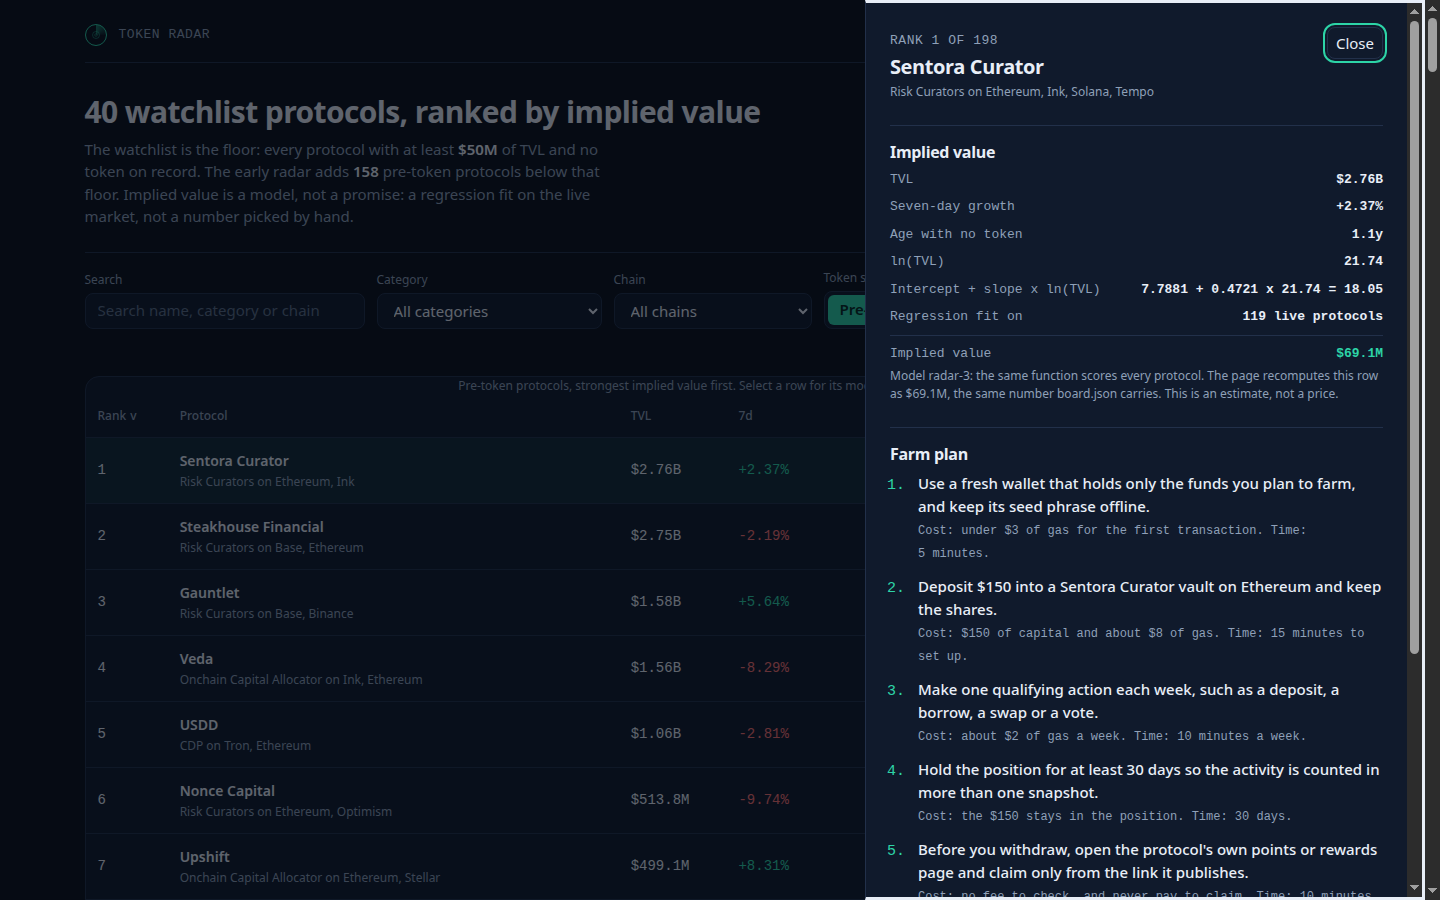
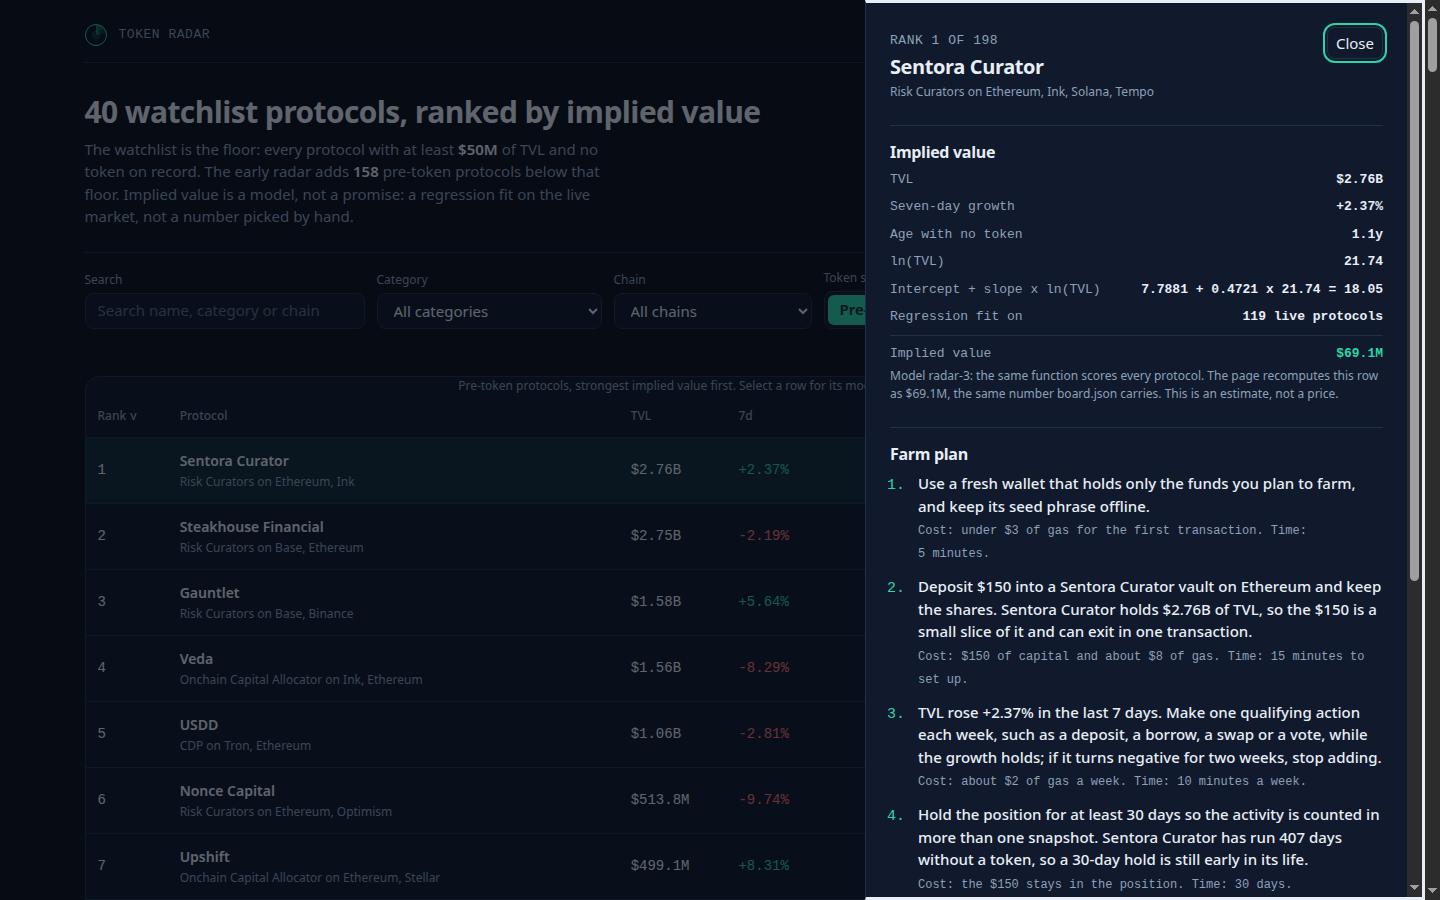
Radar-4: farm plans read the protocol's own record
Every step now carries the protocol's numbers instead of a shared
template: the main action names its TVL, the weekly step follows the
7-day change (grow / fall / flat / unrecorded), the hold names the
days run without a token, a new chain step farms the second chain
with half the capital, the monthly check compares against the
snapshot TVL, and the claim step names the implied value. The plan
in the page and the plan in board.json stay the same plan.

Changed region(s): [[0.625, 0.6533, 1.0, 1.0]]

diff --git a/lib/model.ts b/lib/model.ts
@@ -325,7 +325,7 @@ export function buildBoard(snapshot: Snapshot, model: ModelConstants = MODEL): B
       comparables: s.comparables,
       age_days: s.age,
     },
-    farm_steps: farmSteps(s.p, s.age).map(stepText),
+    farm_steps: farmSteps(s.p, s.age, s.implied).map(stepText),
   }));
 }
 
@@ -337,6 +337,23 @@ export function stepText(step: FarmStep): string {
   if (s.length > 600) s = `${s.slice(0, 596)}...`;
   if (s.length < 20) s = `${s} Hold the position and check the protocol's own page.`;
   return s;
+}
+
+/** A dollar figure, shortened past a thousand, formatted exactly the way the dashboard formats it. */
+const moneyFmt = new Intl.NumberFormat('en-US', { style: 'currency', currency: 'USD', maximumFractionDigits: 0 });
+
+function fmtUsd(n: number): string {
+  if (!isFinite(n)) return 'n/a';
+  if (Math.abs(n) >= 1e9) return `$${(n / 1e9).toFixed(2)}B`;
+  if (Math.abs(n) >= 1e6) return `$${(n / 1e6).toFixed(1)}M`;
+  if (Math.abs(n) >= 1e3) return `$${Math.round(n / 1e3)}K`;
+  return moneyFmt.format(n);
+}
+
+/** A percent with its sign, formatted exactly the way the dashboard formats it. */
+function fmtPct(n: number): string {
+  if (!isFinite(n)) return 'n/a';
+  return `${n > 0 ? '+' : ''}${n.toFixed(2)}%`;
 }
 
 /** The first chain a protocol names, or a neutral phrase. */
@@ -378,11 +395,51 @@ function actionFor(p: SnapshotProtocol, capital: number, chain: string): string 
   return `Deposit $${capital} of USDC into ${name} on ${chain} and keep the position open.`;
 }
 
+/** The weekly step, read off the protocol's own 7-day change. */
+function growthStep(p: SnapshotProtocol): string {
+  if (p.change_7d === null) return `No 7-day change is recorded for ${p.name}. Make one qualifying action each week, such as a deposit, a borrow, a swap or a vote, and judge the trend from next week's TVL.`;
+  if (p.change_7d > 0) return `TVL rose ${fmtPct(p.change_7d)} in the last 7 days. Make one qualifying action each week, such as a deposit, a borrow, a swap or a vote, while the growth holds; if it turns negative for two weeks, stop adding.`;
+  if (p.change_7d < 0) return `TVL fell ${fmtPct(p.change_7d)} in the last 7 days. Make one qualifying action this week, such as a deposit, a borrow, a swap or a vote, then wait a week before adding more.`;
+  return `TVL was flat over the last 7 days. Make one qualifying action each week, such as a deposit, a borrow, a swap or a vote, and that is enough to stay active.`;
+}
+
+/** The hold step, read off how long the protocol has run without a token. */
+function holdStep(p: SnapshotProtocol, age: number | null, hold: number): string {
+  if (age === null) return `Hold the position for at least ${hold} days so the activity is counted in more than one snapshot. Its listing date is not recorded, so ${hold} days is the safe default.`;
+  return `Hold the position for at least ${hold} days so the activity is counted in more than one snapshot. ${p.name} has run ${age} days without a token, so a ${hold}-day hold is still early in its life.`;
+}
+
+/** The chain step: a second chain gets half the capital, a single chain keeps the whole position. */
+function chainStep(p: SnapshotProtocol, capital: number): FarmStep {
+  if (p.chains.length >= 2) {
+    const half = Math.max(10, Math.round(capital / 2));
+    return {
+      text: `${p.name} also runs on ${p.chains[1]!}, so repeat the deposit there with $${half}, half the first position, so the activity shows on two chains, not one.`,
+      cost: `$${half} of capital and about $4 of gas`,
+      time: '15 minutes to set up',
+    };
+  }
+  if (p.chains.length === 1) {
+    return {
+      text: `${p.name} runs only on ${p.chains[0]!}, so all of the activity counts on that one chain. Keep the whole position there instead of splitting it.`,
+      cost: 'nothing extra',
+      time: '5 minutes to check',
+    };
+  }
+  return {
+    text: `${p.name} names no chain in the snapshot, so do the whole position on the chain its app opens on and note which one in the farm log.`,
+    cost: 'nothing extra',
+    time: '5 minutes to check',
+  };
+}
+
 /**
- * A protocol's farm plan: eight steps, each an action with a cost and a time. The plan is derived
- * from the protocol's own record (category, chains, TVL, age), never from a hand-written list of names.
+ * A protocol's farm plan: eight steps, each an action with a cost and a time. Every step is
+ * derived from the protocol's own record — its TVL, its 7-day change, its chains, its age and
+ * its implied value — so two protocols never get the same plan unless their records match.
+ * No protocol name is ever special-cased.
  */
-export function farmSteps(p: SnapshotProtocol, age: number | null): FarmStep[] {
+export function farmSteps(p: SnapshotProtocol, age: number | null, implied: number): FarmStep[] {
   const chain = chainOf(p);
   const capital = capitalFor(p);
   const hold = holdDaysFor(age);
@@ -394,32 +451,28 @@ export function farmSteps(p: SnapshotProtocol, age: number | null): FarmStep[] {
       time: '5 minutes',
     },
     {
-      text: action,
+      text: `${action} ${p.name} holds ${fmtUsd(p.tvl_usd)} of TVL, so the $${capital} is a small slice of it and can exit in one transaction.`,
       cost: `$${capital} of capital and about $${capital >= 150 ? 8 : 4} of gas`,
       time: '15 minutes to set up',
     },
     {
-      text: `Make one qualifying action each week, such as a deposit, a borrow, a swap or a vote.`,
+      text: growthStep(p),
       cost: 'about $2 of gas a week',
       time: '10 minutes a week',
     },
     {
-      text: `Hold the position for at least ${hold} days so the activity is counted in more than one snapshot.`,
+      text: holdStep(p, age, hold),
       cost: `the $${capital} stays in the position`,
       time: `${hold} days`,
     },
+    chainStep(p, capital),
     {
-      text: `Before you withdraw, open the protocol's own points or rewards page and claim only from the link it publishes.`,
-      cost: 'no fee to check, and never pay to claim',
-      time: '10 minutes',
-    },
-    {
-      text: `Once a month, check the protocol's TVL and your position; if TVL falls by more than a fifth in a week, pause new deposits until you know why.`,
+      text: `Once a month, check ${p.name}'s TVL against the ${fmtUsd(p.tvl_usd)} in the last snapshot; if it falls by more than a fifth in a week, pause new deposits until you know why.`,
       cost: 'nothing to check',
       time: '10 minutes a month',
     },
     {
-      text: `Before the token launches, check the protocol's own announcements for the claim window and the eligibility rules; a claim that asks for a fee or a seed phrase is a scam.`,
+      text: `Before the token launches, check ${p.name}'s own announcements for the claim window and the eligibility rules, and claim only from the link it publishes. At an implied ${fmtUsd(implied)} the claim is worth chasing, but a claim that asks for a fee or a seed phrase is a scam.`,
       cost: 'no fee to check',
       time: '10 minutes',
     },

diff --git a/dashboard/app.js b/dashboard/app.js
@@ -69,8 +69,9 @@
   }
 
   // The farm plan, derived in the page exactly as main.ts derives it for board.json: category,
-  // chains, TVL and age decide the action, the capital, the hold and every cost and time. No name
-  // is special-cased, so the page's plan and the board's plan are the same plan.
+  // chains, TVL, the 7-day change, age and the implied value decide the action, the capital,
+  // the hold and every cost and time. No name is special-cased, so the page's plan and the
+  // board's plan are the same plan.
   function firstChain(p) { return p.chains && p.chains.length > 0 ? p.chains[0] : 'its main chain'; }
   function capitalFor(p) {
     if (p.tvl_usd >= 5e9) return 250;
@@ -106,18 +107,39 @@
     if (s.length < 20) s = s + " Hold the position and check the protocol's own page.";
     return s;
   }
+  function growthStep(p) {
+    if (p.change_7d === null || p.change_7d === undefined) return 'No 7-day change is recorded for ' + p.name + ". Make one qualifying action each week, such as a deposit, a borrow, a swap or a vote, and judge the trend from next week's TVL.";
+    if (p.change_7d > 0) return 'TVL rose ' + fmtPct(p.change_7d) + ' in the last 7 days. Make one qualifying action each week, such as a deposit, a borrow, a swap or a vote, while the growth holds; if it turns negative for two weeks, stop adding.';
+    if (p.change_7d < 0) return 'TVL fell ' + fmtPct(p.change_7d) + ' in the last 7 days. Make one qualifying action this week, such as a deposit, a borrow, a swap or a vote, then wait a week before adding more.';
+    return 'TVL was flat over the last 7 days. Make one qualifying action each week, such as a deposit, a borrow, a swap or a vote, and that is enough to stay active.';
+  }
+  function holdStep(p, age, hold) {
+    if (age === null || age === undefined) return 'Hold the position for at least ' + hold + ' days so the activity is counted in more than one snapshot. Its listing date is not recorded, so ' + hold + ' days is the safe default.';
+    return 'Hold the position for at least ' + hold + ' days so the activity is counted in more than one snapshot. ' + p.name + ' has run ' + age + ' days without a token, so a ' + hold + '-day hold is still early in its life.';
+  }
+  function chainStep(p, capital) {
+    if (p.chains && p.chains.length >= 2) {
+      var half = Math.max(10, Math.round(capital / 2));
+      return { text: p.name + ' also runs on ' + p.chains[1] + ', so repeat the deposit there with $' + half + ', half the first position, so the activity shows on two chains, not one.', cost: '$' + half + ' of capital and about $4 of gas', time: '15 minutes to set up' };
+    }
+    if (p.chains && p.chains.length === 1) {
+      return { text: p.name + ' runs only on ' + p.chains[0] + ', so all of the activity counts on that one chain. Keep the whole position there instead of splitting it.', cost: 'nothing extra', time: '5 minutes to check' };
+    }
+    return { text: p.name + ' names no chain in the snapshot, so do the whole position on the chain its app opens on and note which one in the farm log.', cost: 'nothing extra', time: '5 minutes to check' };
+  }
   function farmSteps(p) {
     var chain = firstChain(p);
     var capital = capitalFor(p);
     var hold = holdFor(p.age_days);
+    var action = actionFor(p, capital, chain);
     return [
       { text: 'Use a fresh wallet that holds only the funds you plan to farm, and keep its seed phrase offline.', cost: 'under $3 of gas for the first transaction', time: '5 minutes' },
-      { text: actionFor(p, capital, chain), cost: '$' + capital + ' of capital and about $' + (capital >= 150 ? 8 : 4) + ' of gas', time: '15 minutes to set up' },
-      { text: 'Make one qualifying action each week, such as a deposit, a borrow, a swap or a vote.', cost: 'about $2 of gas a week', time: '10 minutes a week' },
-      { text: 'Hold the position for at least ' + hold + ' days so the activity is counted in more than one snapshot.', cost: 'the $' + capital + ' stays in the position', time: hold + ' days' },
-      { text: "Before you withdraw, open the protocol's own points or rewards page and claim only from the link it publishes.", cost: 'no fee to check, and never pay to claim', time: '10 minutes' },
-      { text: "Once a month, check the protocol's TVL and your position; if TVL falls by more than a fifth in a week, pause new deposits until you know why.", cost: 'nothing to check', time: '10 minutes a month' },
-      { text: "Before the token launches, check the protocol's own announcements for the claim window and the eligibility rules; a claim that asks for a fee or a seed phrase is a scam.", cost: 'no fee to check', time: '10 minutes' },
+      { text: action + ' ' + p.name + ' holds ' + fmtUsd(p.tvl_usd) + ' of TVL, so the $' + capital + ' is a small slice of it and can exit in one transaction.', cost: '$' + capital + ' of capital and about $' + (capital >= 150 ? 8 : 4) + ' of gas', time: '15 minutes to set up' },
+      { text: growthStep(p), cost: 'about $2 of gas a week', time: '10 minutes a week' },
+      { text: holdStep(p, p.age_days, hold), cost: 'the $' + capital + ' stays in the position', time: hold + ' days' },
+      chainStep(p, capital),
+      { text: "Once a month, check " + p.name + "'s TVL against the " + fmtUsd(p.tvl_usd) + " in the last snapshot; if it falls by more than a fifth in a week, pause new deposits until you know why.", cost: 'nothing to check', time: '10 minutes a month' },
+      { text: "Before the token launches, check " + p.name + "'s own announcements for the claim window and the eligibility rules, and claim only from the link it publishes. At an implied " + fmtUsd(p.implied_value_usd) + " the claim is worth chasing, but a claim that asks for a fee or a seed phrase is a scam.", cost: 'no fee to check', time: '10 minutes' },
       { text: 'Write the wallet, the dates and every transaction in a farm log so you can repeat the position or unwind it.', cost: 'nothing but the log', time: '5 minutes' }
     ].map(joinStep);
   }
